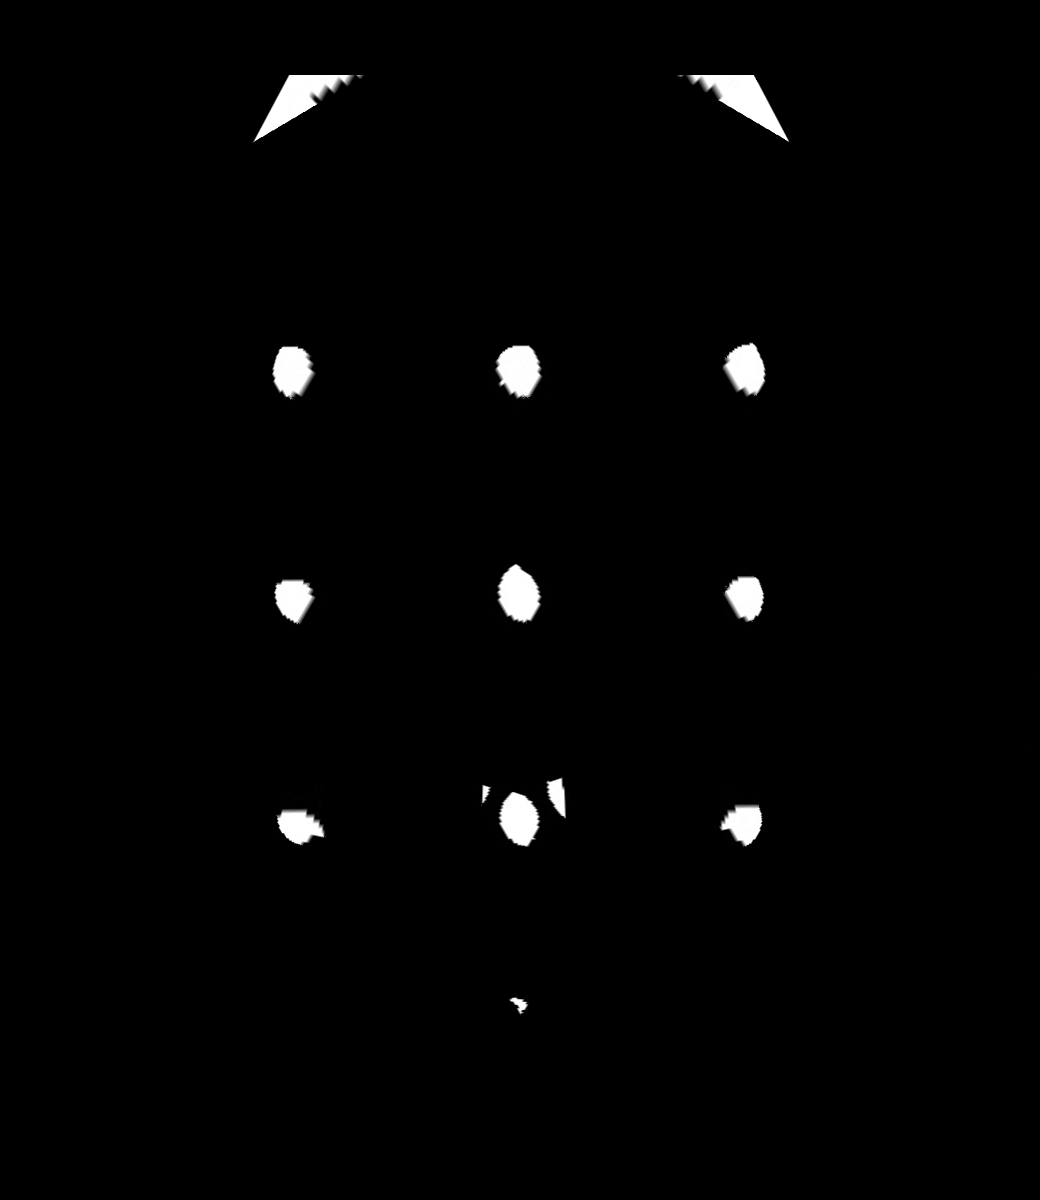
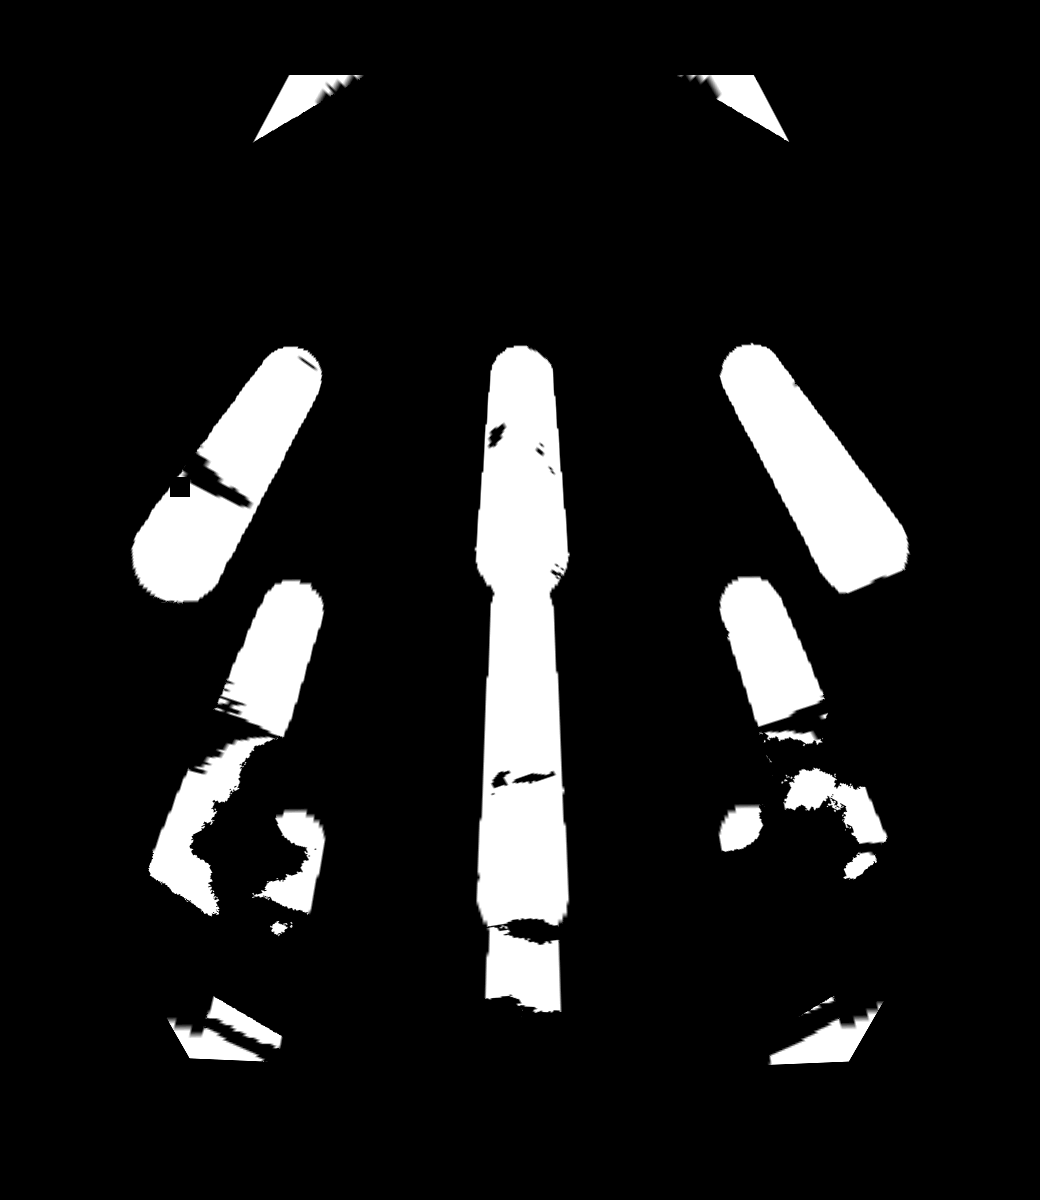
update code

diff --git a/computer_vision/global_map_generator/src/global_map.cpp b/computer_vision/global_map_generator/src/global_map.cpp
@@ -5,6 +5,7 @@
 #include <iostream>
 #include "ros/package.h"
 #include "std_msgs/Int32MultiArray.h"
+#include "global_map_generator/seg_msg.h"
 
 using namespace cv;
 using namespace std;
@@ -12,8 +13,10 @@ using namespace std;
 int IMAGE_HEIGHT = 1200;
 int IMAGE_WIDTH = 1040;
 
+int turtlebot3_node_idx = 2;
+
 int node_points_x[4] = {180, 407, 634, 861};
-int node_points_y[4] = {254, 487, 720, 953};
+int node_points_y[4] = {953, 720, 487, 254};
 
 std::string middle_matrix_file = ros::package::getPath("global_map_generator") + "/perspective_matrix_middle.txt";
 std::string right_matrix_file = ros::package::getPath("global_map_generator") + "/perspective_matrix_right.txt";
@@ -29,9 +32,11 @@ class GlobalMapPublisher
         cv::Mat M_middle = cv::Mat::zeros(3, 3, CV_64FC1);
         cv::Mat M_right = cv::Mat::zeros(3, 3, CV_64FC1);
         cv::Mat M_left = cv::Mat::zeros(3, 3, CV_64FC1);
+        ros::Subscriber seg_sub;
 
     public:
         GlobalMapPublisher(){
+            seg_sub = nh.subscribe("/seg_topic", 1 , &GlobalMapPublisher::global_map_callback, this);
             global_map_pub = nh.advertise<sensor_msgs::Image>("/global_map", 1);
             node_obstacle_info_pub = nh.advertise<std_msgs::Int32MultiArray>("/node_obstacle_info", 1);
             ROS_INFO("Glabal Map Publisher Loaded");
@@ -44,7 +49,7 @@ class GlobalMapPublisher
             }
         }
         
-        void global_map_callback(cv::Mat img_middle, cv::Mat img_right, cv::Mat img_left);
+        void global_map_callback(const global_map_generator::seg_msg::ConstPtr &msg);
         void load_birdeye_matrix();
         void calc_obstalce_info(cv::Mat global_map);
         cv::Mat birdeye(cv::Mat M, cv::Mat img);
@@ -58,8 +63,13 @@ void GlobalMapPublisher::calc_obstalce_info(cv::Mat global_map){
     for(int i=0; i<16; i++){
         for(int s_x = node_points[i][0] - 10; s_x < node_points[i][0] + 10; s_x++){
             for(int s_y = node_points[i][1] - 10; s_y < node_points[i][1] + 10; s_y++){
-                if(global_map.at<uchar>(s_y, s_x) == 255){
-                    node_info[i] = 1;
+                if(i != turtlebot3_node_idx){
+                    if(global_map.at<uchar>(s_y, s_x) == 255){
+                        node_info[i] = 1;
+                    }
+                }
+                else{
+                    global_map.at<uchar>(s_y, s_x) = 0;
                 }
             }
         }
@@ -94,7 +104,28 @@ void GlobalMapPublisher::load_birdeye_matrix(){
     }
 }
 
-void GlobalMapPublisher::global_map_callback(cv::Mat img_middle, cv::Mat img_right, cv::Mat img_left){
+void GlobalMapPublisher::global_map_callback(const global_map_generator::seg_msg::ConstPtr &msg){
+    cv::Mat img_middle = cv::Mat::zeros(480, 640, CV_8UC1);
+    cv::Mat img_right = cv::Mat::zeros(480, 640, CV_8UC1);
+    cv::Mat img_left = cv::Mat::zeros(480, 640, CV_8UC1);
+
+    for(int h=0; h<480; h++){
+        for(int w=0; w<640; w++){
+            if(msg->data[h*640 + w] < msg->data[480*640 + h*640 + w]){
+                img_middle.at<uchar>(h,w) = 255;
+            }
+            if(msg->data[2*640*480 + h*640 + w] < msg->data[2*640*480 + 480*640 + h*640 + w]){
+                img_right.at<uchar>(h,w) = 255;
+            }
+            if(msg->data[2*2*640*480 + h*640 + w] < msg->data[2*2*640*480 + 480*640 + h*640 + w]){
+                img_left.at<uchar>(h,w) = 255;
+            }
+        }
+    }
+    imshow("img_middle", img_middle);
+    imshow("img_right", img_right);
+    imshow("img_left", img_left);
+    
     cv::Mat middle_warped = birdeye(M_middle, img_middle);
     cv::Mat right_warped = birdeye(M_right, img_right);
     cv::Mat left_warped = birdeye(M_left, img_left);
@@ -129,14 +160,12 @@ void GlobalMapPublisher::global_map_callback(cv::Mat img_middle, cv::Mat img_rig
 int main(int argc, char** argv)
 {
     ros::init(argc, argv, "global_map_pub");
-    cv::Mat img_middle = cv::imread(ros::package::getPath("global_map_generator") + "/img_sample/cam1/point_label_img_00005.jpg",CV_RGB2GRAY);
+    /*cv::Mat img_middle = cv::imread(ros::package::getPath("global_map_generator") + "/img_sample/cam1/point_label_img_00005.jpg",CV_RGB2GRAY);
     cv::Mat img_right = cv::imread(ros::package::getPath("global_map_generator") + "/img_sample/cam2/point_label_img_00006.jpg",CV_RGB2GRAY);
-    cv::Mat img_left = cv::imread(ros::package::getPath("global_map_generator") + "/img_sample/cam3/point_label_img_00005.jpg",CV_RGB2GRAY);
+    cv::Mat img_left = cv::imread(ros::package::getPath("global_map_generator") + "/img_sample/cam3/point_label_img_00005.jpg",CV_RGB2GRAY);*/
 
     GlobalMapPublisher global_map_publisher;
     global_map_publisher.load_birdeye_matrix();
-    while(ros::ok())
-        global_map_publisher.global_map_callback(img_middle, img_right, img_left);
-
+    ros::spin();
     return 0;
 }

diff --git a/computer_vision/driving_area_train/test_visualize.py b/computer_vision/driving_area_train/test_visualize.py
@@ -8,38 +8,67 @@ from scripts.utils import *
 from data_loader.dataset import *
 import time
 import matplotlib.pyplot as plt
+import rospy
+from cv_bridge import CvBridge, CvBridgeError
+from sensor_msgs.msg import Image
+import message_filters
+from driving_area_train.msg import seg_msg
+from rospy.numpy_msg import numpy_msg
+import roslib
+
+class image_publisher:
+    def __init__(self):
+        self.USE_CUDA = torch.cuda.is_available()
+        self.DEVICE = torch.device("cuda" if torch.cuda.is_available() else "cpu")
+
+        image_middle_sub = message_filters.Subscriber("/camera1/color/image_raw", Image)
+        image_right_sub = message_filters.Subscriber("/camera2/color/image_raw", Image)
+        image_left_sub = message_filters.Subscriber("/camera3/color/image_raw", Image)
+
+        self.ts = message_filters.ApproximateTimeSynchronizer([image_middle_sub, image_right_sub, image_left_sub], 1, 1, allow_headerless=True)
+        self.ts.registerCallback(self.callback)
+        self.seg_pub = rospy.Publisher('/seg_topic', numpy_msg(seg_msg), queue_size = 10)
+
+        rospy.loginfo("initialized")
+    def callback(self, middle_image, right_image, left_image):
+        bridge = CvBridge()
+
+        USE_CUDA = torch.cuda.is_available()
+        DEVICE = torch.device("cuda" if torch.cuda.is_available() else "cpu")
+        
+        seg_msg_pub = seg_msg()
+
+        model = LaneNet().to(DEVICE)
+        model.load_state_dict(torch.load(roslib.packages.get_pkg_dir("driving_area_train") + "/checkpoints/ldln_ckpt_5.pth"))
+        model.eval()
+
+        image_middle = bridge.imgmsg_to_cv2(middle_image, "bgr8")
+        image_right = bridge.imgmsg_to_cv2(right_image, "bgr8")
+        image_left = bridge.imgmsg_to_cv2(left_image, "bgr8")
+
+        image_middle = cv2.cvtColor(image_middle, cv2.COLOR_BGR2RGB)
+        image_middle = cv2.resize(image_middle, (640, 480))
+        image_middle_to = transforms.ToTensor()(image_middle)
+
+        image_right = cv2.cvtColor(image_right, cv2.COLOR_BGR2RGB)
+        image_right = cv2.resize(image_right, (640, 480))
+        image_right_to = transforms.ToTensor()(image_right)
+
+        image_left = cv2.cvtColor(image_left, cv2.COLOR_BGR2RGB)
+        image_left = cv2.resize(image_left, (640, 480))
+        image_left_to = transforms.ToTensor()(image_left)
+
+        img_input = torch.stack([image_middle_to, image_right_to, image_left_to], dim = 0).to(DEVICE)
+
+        output = model(img_input)
+
+        binary_seg = output['binary_seg']
+        binary_seg_prob = binary_seg.detach().cpu().numpy()
+        seg_msg_pub = binary_seg_prob.flatten()
+
+        self.seg_pub.publish(seg_msg_pub)
 
 if __name__ == "__main__":
-    parser = argparse.ArgumentParser()
-    parser.add_argument("--img_path", '-i', type=str, default="/home/sunho/catkin_ws/src/zero_maker/computer_vision/driving_area_train/img/color/camera_rgb_9999.jpg", help="Path to demo img")
-    parser.add_argument("--weight_path", '-w', default = "/home/sunho/catkin_ws/src/zero_maker/computer_vision/driving_area_train/checkpoints/ldln_ckpt_5.pth", type=str, help="Path to model weights")
-    parser.add_argument("--band_width", '-b', type=float, default=1.5, help="Value of delta_v")
-    parser.add_argument("--visualize", '-v', action="store_true", default=False, help="Visualize the result")
-    opt = parser.parse_args()
-
-    USE_CUDA = torch.cuda.is_available()
-    DEVICE = torch.device("cuda" if torch.cuda.is_available() else "cpu")
-
-    img = cv2.imread(opt.img_path)
-    img = cv2.cvtColor(img, cv2.COLOR_BGR2RGB)
-    img = cv2.resize(img, (640, 480))
-    img_to = transforms.ToTensor()(img)
-    img_to = torch.stack([img_to]).to(DEVICE)
-
-    model = LaneNet().to(DEVICE)
-    model.load_state_dict(torch.load(opt.weight_path))
-    model.eval()
-
-    start_time = time.time()
-    output = model(img_to)
-    binary_seg = output['binary_seg']
-    binary_seg_prob = binary_seg.detach().cpu().numpy()
-    binary_seg_pred = np.argmax(binary_seg_prob, axis = 1)[0]
-
-    img = cv2.cvtColor(img, cv2.COLOR_RGB2BGR)
-    seg_img = np.zeros_like(img)
-    seg_img[binary_seg_pred == 1] = 255
-
-    cv2.imshow("img", seg_img)
-    cv2.waitKey(0)
-    cv2.destroyAllWindows()
+    rospy.init_node('image_publisher', anonymous=True)
+    img_pub = image_publisher()
+    rospy.spin()

diff --git a/computer_vision/driving_area_train/test.py b/computer_vision/driving_area_train/test.py
@@ -9,7 +9,6 @@ from data_loader.dataset import *
 import time
 import matplotlib.pyplot as plt
 import roslib
-from cv_bridge import CvBridge, CvBridgeError
 
 if __name__ == "__main__":
     parser = argparse.ArgumentParser()
